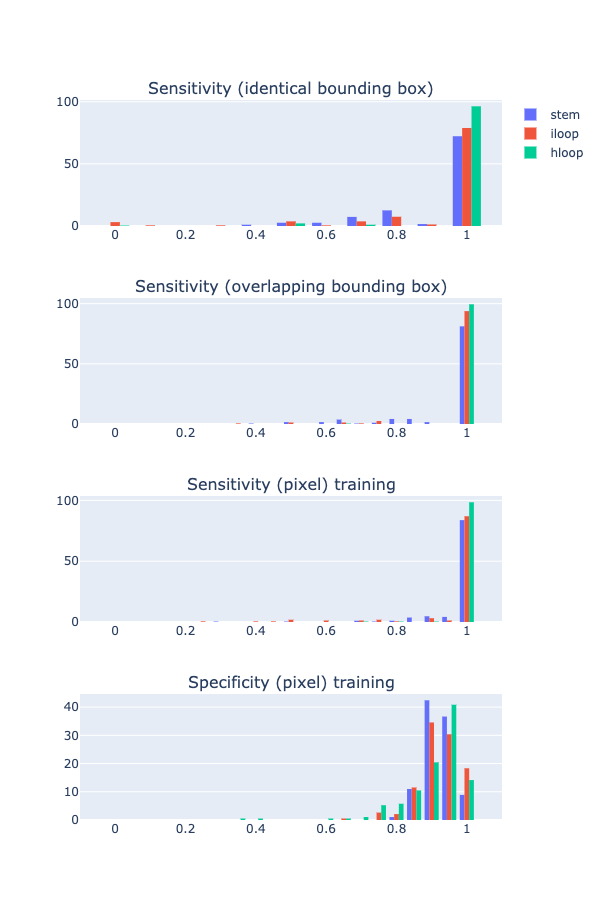
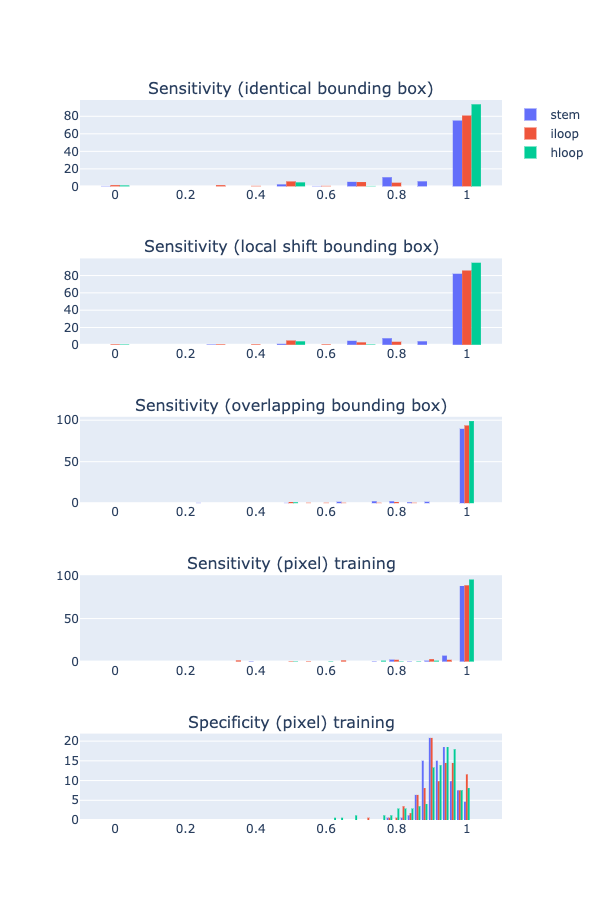
add plot

diff --git a/meetings/2021_01_05/README.md b/meetings/2021_01_05/README.md
@@ -69,7 +69,9 @@ plot training progress:
 python model_utils/plot_training.py --in_log s1_training/result/with_scalar_size/run.log  --out_plot s1_training/result/with_scalar_size/training_progress.html
 ```
 
-TODO upload trained model.
+![plot/s1_training_progress.png](plot/s1_training_progress.png)
+
+upload trained model:
 
 ```
 # train on random sequence, after adding in scalar target for bb size, ep 11
@@ -168,6 +170,13 @@ predictor.predict_bb('ACGTGTACGATGCAG', 0.1)
 
 ### S1 evaluation
 
+Added sensitivity on local shift bounding box.
+For this case, two bounding boxes are considered a 'hit' if
+the max abs diff between their parameters <= 1:
+
+```
+max_diff = max(abs(bb1_x - bb2_x), abs(bb1_y - bb2_y), abs(siz1_x - siz2_x), abs(siz1_y - siz2_y))
+```
 
 on synthetic dataset:
 
@@ -176,15 +185,16 @@ on synthetic dataset:
 python model_utils/eval_model_dataset.py --data "`dcl path xs5Soq`" --num 200 --maxl 200 --model v1.0 --out_csv result/synthetic_s1_debug.csv --out_plot result/synthetic_s1_debug.html
 ```
 
+![plot/s1_metric.png](plot/s1_metric.png)
 
-bounding box metric
+As shown above, identical bb sensitivity is almost the same as
+local shift bb sensitivity, which means that
+for most bb where we missed in prediction,
+they can't be simply recovered by a simple local shift/expand.
 
-non-100% bb sensitivity: how about shift/expand bb?
-how about using not just argmax of softmax?
+Would they be recovered if using top k or top percent inference (instead of argmax)?
+TODO
 
-pixel metric
-
-focus on sensitivity
 
 any improvement after adding in scalar output?
 
@@ -334,6 +344,10 @@ TODO bb cutoff?
 
 
 ## TODOs
+
+- s1 inference: running on longer sequence, can create a wrapper of the existing interface:
+seq -> short seq pairs -> dfs -> translate -> stitch -> prediction. Be careful with boundary effect.
+bb across boundary > include all.
 
 - s2 idea: stacked 2D map: seq + binary, one for each local structure (predicted by s1). self attn across 2d maps?
 
